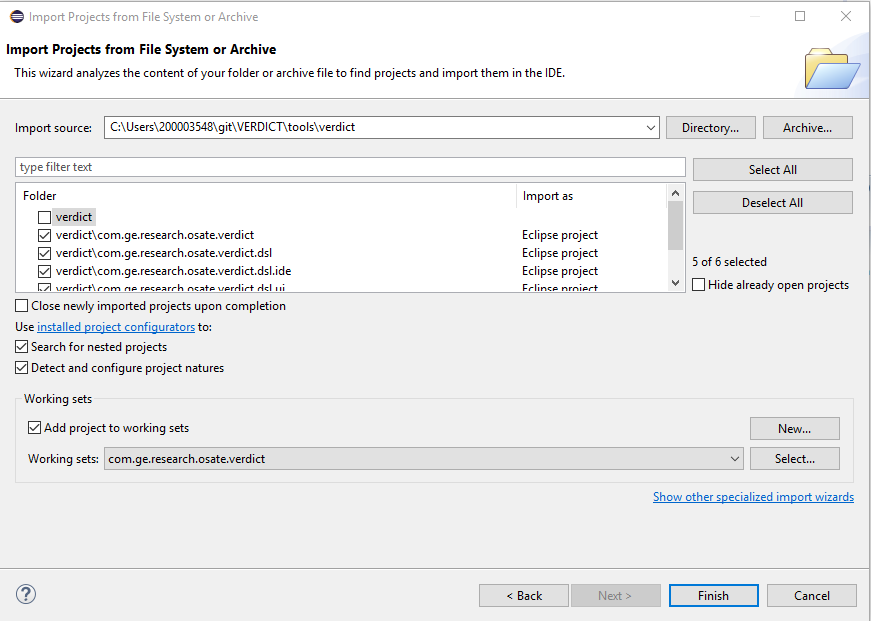
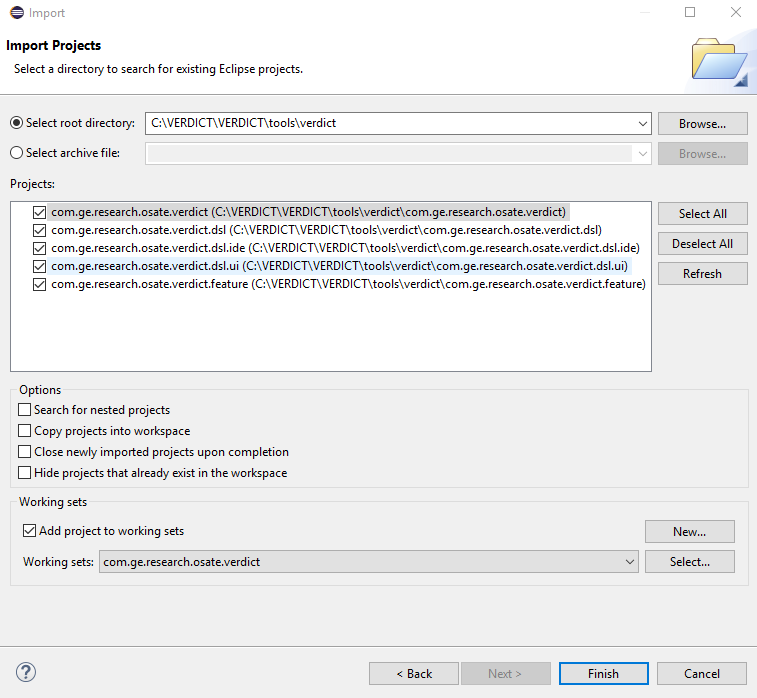
Try to fix tools/verdict build
Ensure that the src-gen and xtend-gen folders exist in source control
to avoid breaking Eclipse's build path although we won't add their
contents to source control since the contents are generated files.
Replace a screenshot in the build instructions with a better one.

Changed region(s): [[0.0, 0.0, 1.0, 0.8261], [0.4861, 0.8873, 1.0, 1.0], [0.0, 0.9179, 0.0608, 0.9791]]

diff --git a/tools/verdict/README.md b/tools/verdict/README.md
@@ -68,11 +68,9 @@ Fortunately, you will not have to do these steps since the Eclipse
 project files are in source control.
 
 Start Eclipse's project import wizard using a pulldown menu (File >
-Import... > General > Projects from Folder or Archive).  Select this
-directory as the folder to import.  The wizard will detect and list
-the nested projects inside each subdirectory automatically.  The first
-project will be this verdict directory which has no files worth
-opening in Eclipse, so unselect it by toggling its checkbox off.
+Import... > General > Existing Projects into Workspace).  Select this
+verdict directory as the folder to import.  The wizard will detect and
+list the nested projects inside each subdirectory automatically.
 Toggle the checkbox under Working Sets next to Add project to working
 sets.  Press the New... button, select Java as the working set type,
 type com.ge.research.osate.verdict as the Working set's name, and

diff --git a/tools/verdict/com.ge.research.osate.verdict.dsl/xtend-gen/README.md b/tools/verdict/com.ge.research.osate.verdict.dsl/xtend-gen/README.md
@@ -1,0 +1,5 @@
+According to this
+[blog](https://kthoms.wordpress.com/2011/10/06/xtext-maven-and-source-control/),
+the xtend-gen folder should exist in source control to avoid breaking
+Eclipse's build path but its contents should not be in source control
+since they are generated files.

diff --git a/tools/verdict/com.ge.research.osate.verdict.dsl.ui/src-gen/README.md b/tools/verdict/com.ge.research.osate.verdict.dsl.ui/src-gen/README.md
@@ -1,0 +1,5 @@
+According to this
+[blog](https://kthoms.wordpress.com/2011/10/06/xtext-maven-and-source-control/),
+the src-gen folder should exist in source control to avoid breaking
+Eclipse's build path but its contents should not be in source control
+since they are generated files.

diff --git a/tools/verdict/com.ge.research.osate.verdict.dsl/src-gen/README.md b/tools/verdict/com.ge.research.osate.verdict.dsl/src-gen/README.md
@@ -1,0 +1,5 @@
+According to this
+[blog](https://kthoms.wordpress.com/2011/10/06/xtext-maven-and-source-control/),
+the src-gen folder should exist in source control to avoid breaking
+Eclipse's build path but its contents should not be in source control
+since they are generated files.
